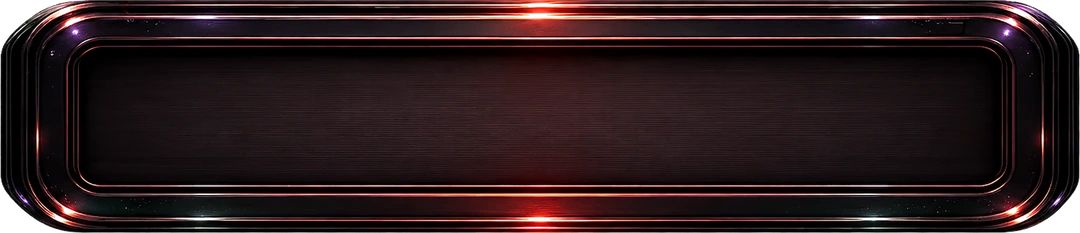
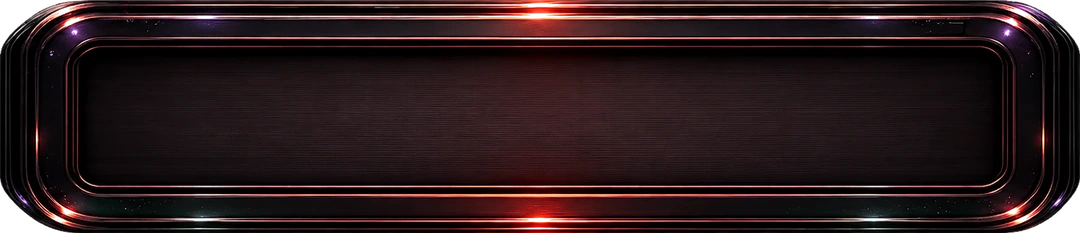
v2.64.2: LED-balk even breed als de kast, en zijn rand schoon
- De balk is nu exact even breed als het zichtbare silhouet van de kast: 354,4
  punten tegen 354,4, links en rechts op dezelfde pixel. De kast vult zijn eigen
  doos namelijk niet helemaal (98,44% breed, 0,47% links van het midden omdat de
  gloed rechts verder uitloopt), en de balk wel; daarom krijgt de balk die 98,44%
  als doos mee plus een marge die zijn midden op dat van de kast legt.
- Zijn bleke onderrand is weg. Drie routes waren nodig voordat het klopte:
  de mat overal wegrekenen verkleurde de hele balk; snijden op "niet-achtergrond"
  liep het lichtgrijze veld in en dat werd de streep; en snijden op de dekkende
  doos met alpha 1 maakte witte blokken van de ronde hoeken. Wat wel klopt: de
  DEKKENDE rechthoek als uitsnede, de dekking uit het masker zodat de hoeken rond
  blijven, en de mat alleen weggerekend op de pixels waar het masker tussen 0 en 1
  zit (0,99% van de balk). In het dekkende midden staat geen grijs, dus daar blijft
  de kleur byte voor byte staan.
- Ruit neemt nu een eigen breedte in plaats van altijd het hele vak, zodat twee
  stukken art van verschillende maat toch op elkaar kunnen uitlijnen.

diff --git a/frontend/src/screens/Arena.tsx b/frontend/src/screens/Arena.tsx
@@ -194,11 +194,21 @@ function Bord({ aanNu, uit, onTik }: { aanNu: number | null; uit: boolean; onTik
  *  terug naar die hoogte. Met calc op één bekende maat is er niets te raden. */
 type Maten = { verhouding: number; links: number; rechts: number; boven: number; onder: number };
 
-const LED: Maten = { verhouding: 4.6352, links: 0.063, rechts: 0.0639, boven: 0.0435, onder: 0.0454 };
+const LED: Maten = { verhouding: 4.6374, links: 0.0722, rechts: 0.062, boven: 0.0435, onder: 0.0435 };
 
-function Ruit({ art, maat, binnen, children }: { art: string; maat: Maten; binnen?: React.CSSProperties; children: React.ReactNode }) {
+// De kast vult zijn eigen doos NIET helemaal: zijn dekkende silhouet is 98,44%
+// breed en hangt daarbinnen 0,47% links van het midden (de gloed loopt rechts
+// iets verder uit). De LED-balk is strak op zijn balk gesneden en vult zijn doos
+// dus wel. Om ze even breed te laten LIJKEN krijgt de balk die 98,44% als doos
+// mee, plus een marge die zijn midden op dat van de kast legt: in een gecentreerde
+// kolom schuift een marge rechts het element de helft daarvan naar links.
+const KAST_VUL = 0.9844;
+const KAST_SCHEEF = 0.0047;
+const BALK = `calc(${VAK} * ${KAST_VUL})`;
+
+function Ruit({ art, maat, breedte = VAK, binnen, style, children }: { art: string; maat: Maten; breedte?: string; binnen?: React.CSSProperties; style?: React.CSSProperties; children: React.ReactNode }) {
   return (
-    <div style={{ position: "relative", width: VAK, height: `calc(${VAK} / ${maat.verhouding})`, flexShrink: 0 }}>
+    <div style={{ position: "relative", width: breedte, height: `calc(${breedte} / ${maat.verhouding})`, flexShrink: 0, ...style }}>
       <img
         src={art}
         alt=""
@@ -208,10 +218,10 @@ function Ruit({ art, maat, binnen, children }: { art: string; maat: Maten; binne
       <div
         style={{
           position: "absolute",
-          left: `calc(${VAK} * ${maat.links})`,
-          right: `calc(${VAK} * ${maat.rechts})`,
-          top: `calc(${VAK} * ${maat.boven})`,
-          bottom: `calc(${VAK} * ${maat.onder})`,
+          left: `calc(${breedte} * ${maat.links})`,
+          right: `calc(${breedte} * ${maat.rechts})`,
+          top: `calc(${breedte} * ${maat.boven})`,
+          bottom: `calc(${breedte} * ${maat.onder})`,
           ...binnen,
         }}
       >
@@ -382,8 +392,10 @@ function Flitsreeks({ seed, onKlaar }: { seed: string; onKlaar: (score: number, 
           puntletter: dat is wat een scorebord doet, en het haalt de cijfers weg
           uit de losse regels die boven de pads zweefden. */}
       <Ruit
-        art="/ui/flits/ledbalk.webp?v=3"
+        art="/ui/flits/ledbalk.webp?v=4"
         maat={LED}
+        breedte={BALK}
+        style={{ marginRight: `calc(${VAK} * ${KAST_SCHEEF * 2})` }}
         binnen={{ display: "flex", alignItems: "center", justifyContent: "space-between", paddingInline: "8%", gap: 10, overflow: "hidden" }}
       >
         <Led maat={15} sterk={0.7} kleur={ledKleur(level)}>{t("arenaRonde", { n: level }).toUpperCase()}</Led>

diff --git a/frontend/src/version.ts b/frontend/src/version.ts
@@ -1,2 +1,2 @@
 // Bump per user-facing release. Shown in Settings > About.
-export const APP_VERSION = "2.64.1";
+export const APP_VERSION = "2.64.2";
